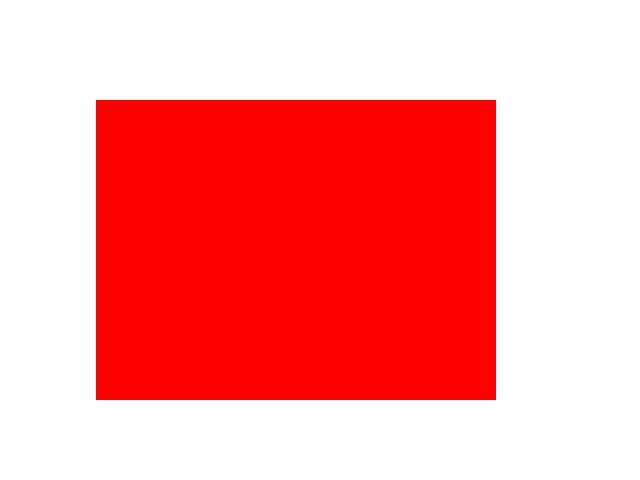
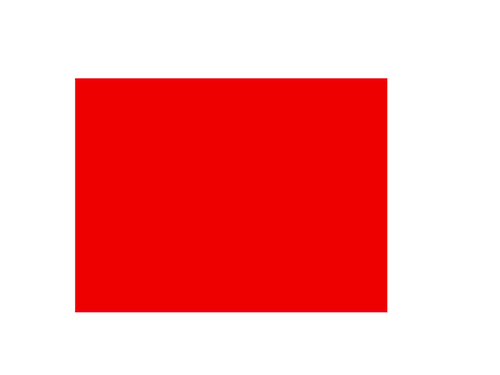
improved images, added toc style

diff --git a/canvasbook/chapter1.html b/canvasbook/chapter1.html
@@ -85,7 +85,7 @@ c.fillRect(100,100,400,300);
 
 
 <div class="photo">
-<img src="../content/redrect.png"/>
+<img src="images/redrect.png"/>
 <p><b>screenshot</b> Simple red rectangle</p>
 <p><i>This rectangle is drawn with the context.fillRect() function.</i></p>
 </div>
@@ -326,8 +326,8 @@ off the top of the screen.</p>
 <p>So that's it for basic drawing.  Let's stop there and do some exercises in the next chapter.  You should already have a webbrowser and text editor installed. I recommend using Chrome because it has nice debugging tools, and jEdit because it's free and cross platform; but you can use the browser and editor of your choice.  Note that since we are loading code from the local harddrive you may need to disable security in Chrome during development. The handout notes describe how to do this.  The notes can be viewed here:
 </p>
 
-<nav>
-<a href="chapter2.html">Chapter 2</a>
+<nav id="chapternav">
+<a href="toc.html">&lt; Table of Contents</a><a href="chapter2.html">Chapter 2 : Hands On &gt;</a>
 </nav>
 
 <ul id="footer">

diff --git a/canvasbook/standard.css b/canvasbook/standard.css
@@ -92,6 +92,7 @@ h2 {
 }
 #fchapter {
 	border: 1px solid #f0f0f0;
+	padding: 0.3em;
 }
 #fchapter:hover {
 	border: 1px solid #606060;
@@ -132,6 +133,29 @@ th {
 	background-color: #9f9f9f;
 }
 
+
+/* ==== chapter navigation ==== */
+
+#chapternav {
+	border:0px solid black;
+	text-align: right;
+}
+#chapternav a {
+	padding: 0.3em;
+	margin: 0.5em;
+	text-decoration: none;
+	color: #666;
+	border: 1px solid black;
+	border-color: #aaa;
+	border: 1px solid #f0f0f0;
+}
+#chapternav a:hover {
+	border: 1px solid #606060;
+	background-color: #ddd;
+}
+
+
+
 /* ========= table of contents menu =========== */
 
 #toc {
@@ -165,6 +189,9 @@ th {
 	text-decoration: none;
 	color: #676767;
 }
+
+
+
 
 
 

diff --git a/canvasbook/chapter2.html b/canvasbook/chapter2.html
@@ -18,6 +18,9 @@
 <h1>Hands On</h1>
 
 
+<nav id="chapternav">
+<a href="chapter1.html">&lt; Chapter 1 : Introduction</a>
+</nav>
 
 <ul id="footer">
 <li><b id="fchapter">Chapter 2</b></li>

diff --git a/canvasbook/toc.html b/canvasbook/toc.html
@@ -86,6 +86,9 @@
 </ul>
 
 
+<nav id="chapternav">
+<a href="chapter1.html">Chapter 1 : Introduction &gt;</a>
+</nav>
 
 <ul id="footer">
 <li><b id="fchapter">Table of Contents</b></li>
